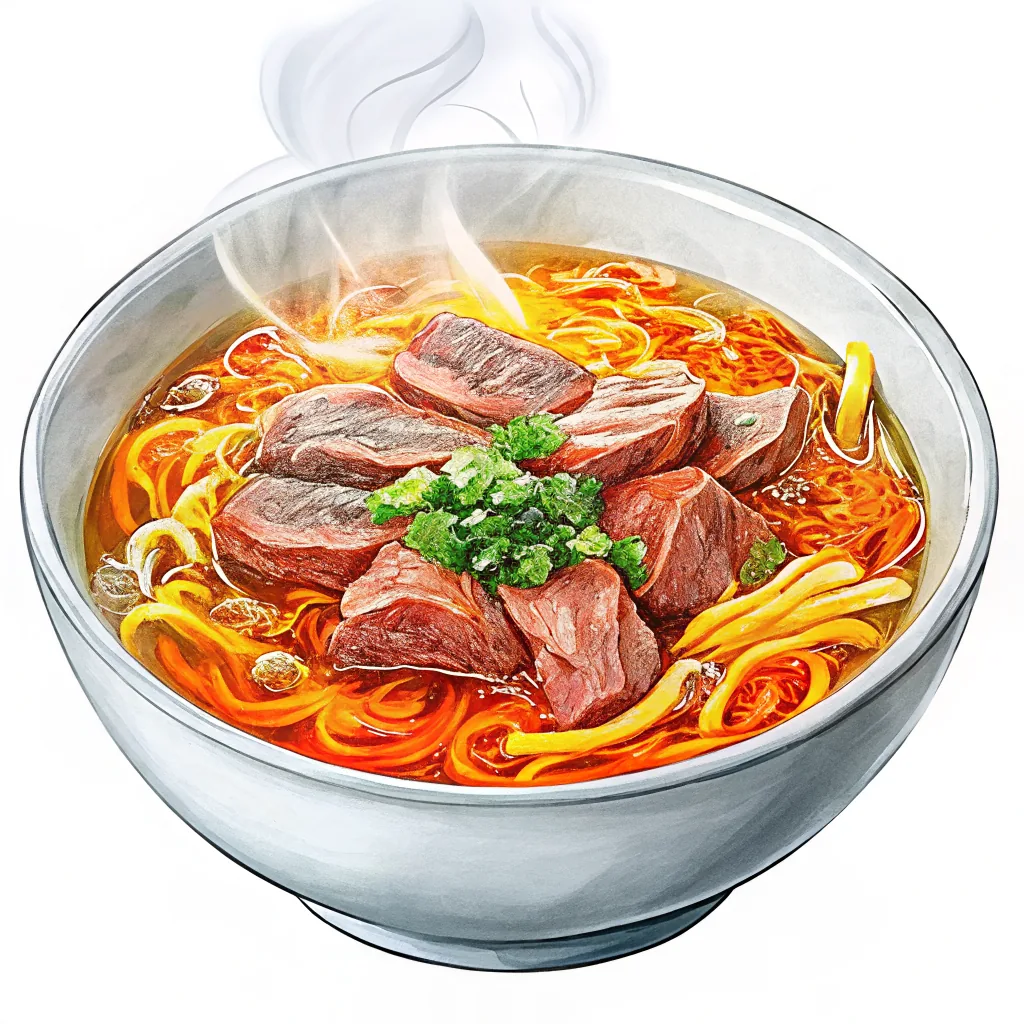
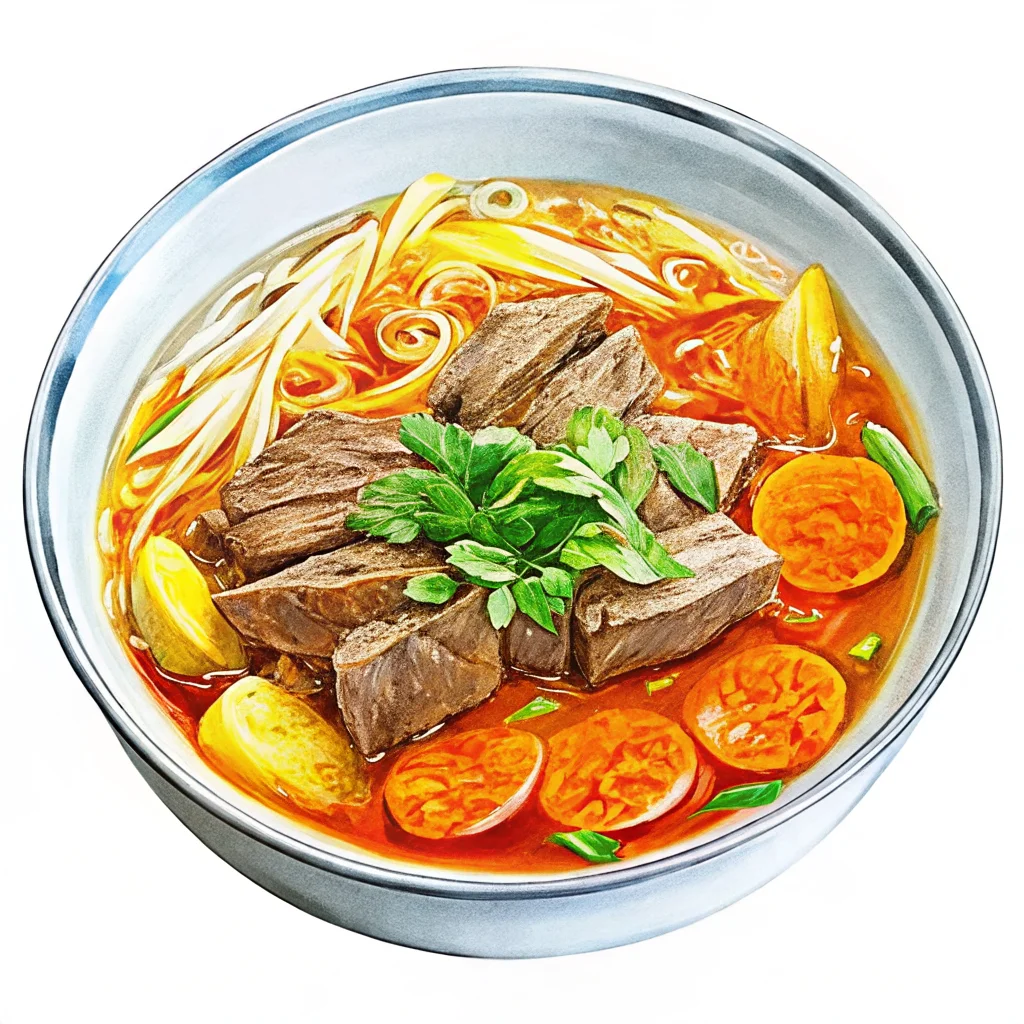
2

diff --git a/diagnosis/index.html b/diagnosis/index.html
@@ -269,7 +269,7 @@ const BASE_QUESTIONS = {
     {yesVal:'S', text:'旅先では、同行者と感動をその場で共有できると満足度が上がる'},
     {yesVal:'L', text:'旅中、自分だけで動く時間が一定量ないとしんどい'},
     {yesVal:'S', text:'旅仲間のペースや好みに合わせるのは、それほど苦にならない'},
-    {yesVal:'L', text:'興味のないスポットでも付き合いで行くのが続くと、疲れてくる'},
+    {yesVal:'L', text:'旅先でも、起床や食事のタイミングを自分で決めたい'},
   ],
   HW: [
     {yesVal:'H', text:'宿は、清潔さや設備の良さを最優先で選ぶ'},
@@ -308,66 +308,66 @@ function buildShuffledBase() {
 // ===== 16タイプ定義 =====
 const TYPES = {
   PISH:{name:'文化旅行の設計者', color:'#2563a0',
-    traits:['計画派','文化・学び','大人数派','快適志向'],
+    traits:['計画派','文化・学び','協調派','快適志向'],
     desc:'綿密な計画で仲間と快適に文化旅行を楽しむタイプ。美術館や遺跡を事前リサーチし、ランチもディナーも予約済みで迷わない。グループ旅行の頼れる幹事として輝く存在。'},
   PISW:{name:'調査隊長', color:'#1a6b3a',
-    traits:['計画派','文化・学び','大人数派','ワイルド'],
+    traits:['計画派','文化・学び','協調派','ワイルド'],
     desc:'計画を立てて仲間と文化・歴史の探求に出かけるタイプ。多少不便な場所でも計画通りに動き、仲間と学びを共有する。フィールドワーク型の旅が得意な頼れるリーダー。'},
   PILH:{name:'静かな学者', color:'#7b5ea7',
-    traits:['計画派','文化・学び','少人数派','快適志向'],
-    desc:'計画的に少人数か一人で快適に文化を巡るタイプ。美術館の閉館時間やアクセス方法を事前に調べ、集中して展示や史跡に向き合う。快適な宿で旅の余韻と学びを整理する時間も旅の一部。'},
+    traits:['計画派','文化・学び','マイペース派','快適志向'],
+    desc:'計画的にマイペースで快適に文化を巡るタイプ。美術館の閉館時間やアクセス方法を事前に調べ、自分のペースで展示や史跡に向き合う。快適な宿で旅の余韻と学びを整理する時間も旅の一部。'},
   PILW:{name:'フィールドワーカー', color:'#4a7a59',
-    traits:['計画派','文化・学び','少人数派','ワイルド'],
-    desc:'計画は入念に立てるが宿や移動は多少ワイルドでも構わない、少人数か一人で文化・歴史を追うタイプ。テントを張りながら古代遺跡を巡るような学術的なストイック旅が真骨頂。'},
+    traits:['計画派','文化・学び','マイペース派','ワイルド'],
+    desc:'計画は入念に立てるが宿や移動は多少ワイルドでも構わない、自分のペースで文化・歴史を追うタイプ。テントを張りながら古代遺跡を巡るような学術的なストイック旅が真骨頂。'},
   POSH:{name:'リゾートの幹事', color:'#e07b39',
-    traits:['計画派','絶景・リフレッシュ','大人数派','快適志向'],
+    traits:['計画派','絶景・リフレッシュ','協調派','快適志向'],
     desc:'仲間と一緒に快適なリゾートをしっかり計画して楽しむタイプ。ホテルもアクティビティも事前予約済みで誰もが満足する旅を実現する。限られた休日を最大限に活用する段取りの達人。'},
   POSW:{name:'アウトドア隊長', color:'#3a7540',
-    traits:['計画派','絶景・リフレッシュ','大人数派','ワイルド'],
+    traits:['計画派','絶景・リフレッシュ','協調派','ワイルド'],
     desc:'計画的に仲間とアウトドアやキャンプを楽しむタイプ。行程と装備をしっかり整えてから自然に飛び込む。テントや焚き火も「計画の一部」として楽しむ、組織的な冒険家。'},
   POLH:{name:'プレミアム隠居人', color:'#c8940a',
-    traits:['計画派','絶景・リフレッシュ','少人数派','快適志向'],
-    desc:'計画通りに少人数か一人で快適にリフレッシュするタイプ。旅館や温泉・スパも事前予約済みで、大人数に気を遣わず過ごせる時間を徹底的に楽しむ。読書や昼寝も計画の一部に組み込む自己管理の達人。'},
+    traits:['計画派','絶景・リフレッシュ','マイペース派','快適志向'],
+    desc:'計画通りにマイペースで快適にリフレッシュするタイプ。旅館や温泉・スパも事前予約済みで、他人のペースに左右されない時間を徹底的に楽しむ。読書や昼寝も計画の一部に組み込む自己管理の達人。'},
   POLW:{name:'孤独なキャンパー', color:'#607d8b',
-    traits:['計画派','絶景・リフレッシュ','少人数派','ワイルド'],
-    desc:'少人数か一人で、計画的にワイルドな自然の中でリフレッシュするタイプ。ルートと装備を入念に準備し、人混みのない山や海岸で静かな時間を過ごす。少人数だからこそ動ける行程が最大の強み。'},
+    traits:['計画派','絶景・リフレッシュ','マイペース派','ワイルド'],
+    desc:'マイペースに、計画的にワイルドな自然の中でリフレッシュするタイプ。ルートと装備を入念に準備し、人混みのない山や海岸で静かな時間を過ごす。自分のペースで動ける行程設計が最大の強み。'},
   FISH:{name:'文化の社交師', color:'#c94a29',
-    traits:['直感派','文化・学び','大人数派','快適志向'],
+    traits:['直感派','文化・学び','協調派','快適志向'],
     desc:'気ままに仲間と快適に文化巡りを楽しむタイプ。予定になかった美術館に気づいたら入り、出会った人と感動を共有する。旅先でも知的好奇心と社交力がフル回転するコミュニティの核。'},
   FISW:{name:'裏路地の探検家', color:'#8b4513',
-    traits:['直感派','文化・学び','大人数派','ワイルド'],
+    traits:['直感派','文化・学び','協調派','ワイルド'],
     desc:'直感で動きながら仲間と文化的な冒険をするタイプ。地元民しか知らない路地や市場に迷い込み、その場の空気を仲間と笑いながら体験する。予定外の発見が最高の旅の記憶になる。'},
   FILH:{name:'直感の知識人', color:'#3a8a8a',
-    traits:['直感派','文化・学び','少人数派','快適志向'],
-    desc:'気の向くままに少人数か一人で快適に文化を探索するタイプ。計画は立てないが良質な博物館や遺跡に自然と引き寄せられる。快適な宿で旅の振り返りと読書をじっくり楽しむ知的冒険家。'},
+    traits:['直感派','文化・学び','マイペース派','快適志向'],
+    desc:'気の向くままにマイペースで快適に文化を探索するタイプ。計画は立てないが良質な博物館や遺跡に自然と引き寄せられる。快適な宿で旅の振り返りと読書をじっくり楽しむ知的冒険家。'},
   FILW:{name:'風来坊の研究者', color:'#5c4033',
-    traits:['直感派','文化・学び','少人数派','ワイルド'],
-    desc:'直感のまま少人数か一人で文化と自然を同時に追うタイプ。宿の質より体験の質を重視し、多少の不便も学びの素材として受け入れる。予定表なし・宿は当日探し、でも収穫は最大という旅人。'},
+    traits:['直感派','文化・学び','マイペース派','ワイルド'],
+    desc:'直感のままマイペースに文化と自然を同時に追うタイプ。宿の質より体験の質を重視し、多少の不便も学びの素材として受け入れる。予定表なし・宿は当日探し、でも収穫は最大という旅人。'},
   FOSH:{name:'自由なリゾーター', color:'#d47a00',
-    traits:['直感派','絶景・リフレッシュ','大人数派','快適志向'],
+    traits:['直感派','絶景・リフレッシュ','協調派','快適志向'],
     desc:'気ままに仲間と快適にリフレッシュするタイプ。どこに行くかは直前に決めても、着いた先では最高の宿とビーチで全力でくつろぐ。一緒にいる仲間と笑う時間が最大の旅の目的。'},
   FOSW:{name:'バックパッカーの主役', color:'#3a7044',
-    traits:['直感派','絶景・リフレッシュ','大人数派','ワイルド'],
+    traits:['直感派','絶景・リフレッシュ','協調派','ワイルド'],
     desc:'自由に仲間とワイルドにリフレッシュするタイプ。行き先も宿も当日決め、出会った旅人と意気投合してそのまま次の街へ向かうことも。雑多な環境でも仲間がいれば最高の旅になる。'},
   FOLH:{name:'ひとり漂流リゾーター', color:'#5e7a8a',
-    traits:['直感派','絶景・リフレッシュ','少人数派','快適志向'],
-    desc:'気まぐれに少人数か一人で快適にリフレッシュするタイプ。いつ・どこへ行くかは直感で決め、気に入った宿に長く滞在することも。大人数に合わせず、心地よさだけを基準に動く自由な旅人。'},
+    traits:['直感派','絶景・リフレッシュ','マイペース派','快適志向'],
+    desc:'気まぐれにマイペースで快適にリフレッシュするタイプ。いつ・どこへ行くかは直感で決め、気に入った宿に長く滞在することも。他人のペースに合わせず、心地よさだけを基準に動く自由な旅人。'},
   FOLW:{name:'完全なる漂流者', color:'#6b5e62',
-    traits:['直感派','絶景・リフレッシュ','少人数派','ワイルド'],
-    desc:'大人数の予定合わせも快適さも不要、少人数か一人でただ自由に流れるタイプ。宿は当日探し、食事は屋台、移動手段は乗れたもの。旅そのものが目的の完全なる自由人。すべてが旅の醍醐味になる。'},
+    traits:['直感派','絶景・リフレッシュ','マイペース派','ワイルド'],
+    desc:'誰かのペースに合わせることも快適さも不要、ただ自由に流れるタイプ。宿は当日探し、食事は屋台、移動手段は乗れたもの。旅そのものが目的の完全なる自由人。すべてが旅の醍醐味になる。'},
 };
 
 // ===== 相性計算（軸一致数ベース・アルゴリズム算出） =====
 const AXIS_CHAR_NAMES = {
   P:'計画派', F:'ノリ重視',
   I:'文化・学び重視', O:'絶景・リフレッシュ重視',
-  S:'大人数派', L:'少人数派',
+  S:'協調派', L:'マイペース派',
   H:'快適志向', W:'ワイルド志向',
 };
 const AXIS_MISMATCH_NOTES = [
   '計画性とその場のノリが逆方向。役割を分けると旅がスムーズ。',
   '文化・学びと絶景・リフレッシュで旅の目的が異なる。時間配分を話し合って。',
-  '大人数旅行派と少人数派でペースが違う。自由行動の時間を多めに確保するのがコツ。',
+  'マイペース派と協調派でペースが違う。自由行動の時間を意識的に設けるとうまくいく。',
   '宿・移動の快適さへのこだわりが逆。予算配分を事前に決めておこう。',
 ];
 function getCompat(typeA, typeB) {
